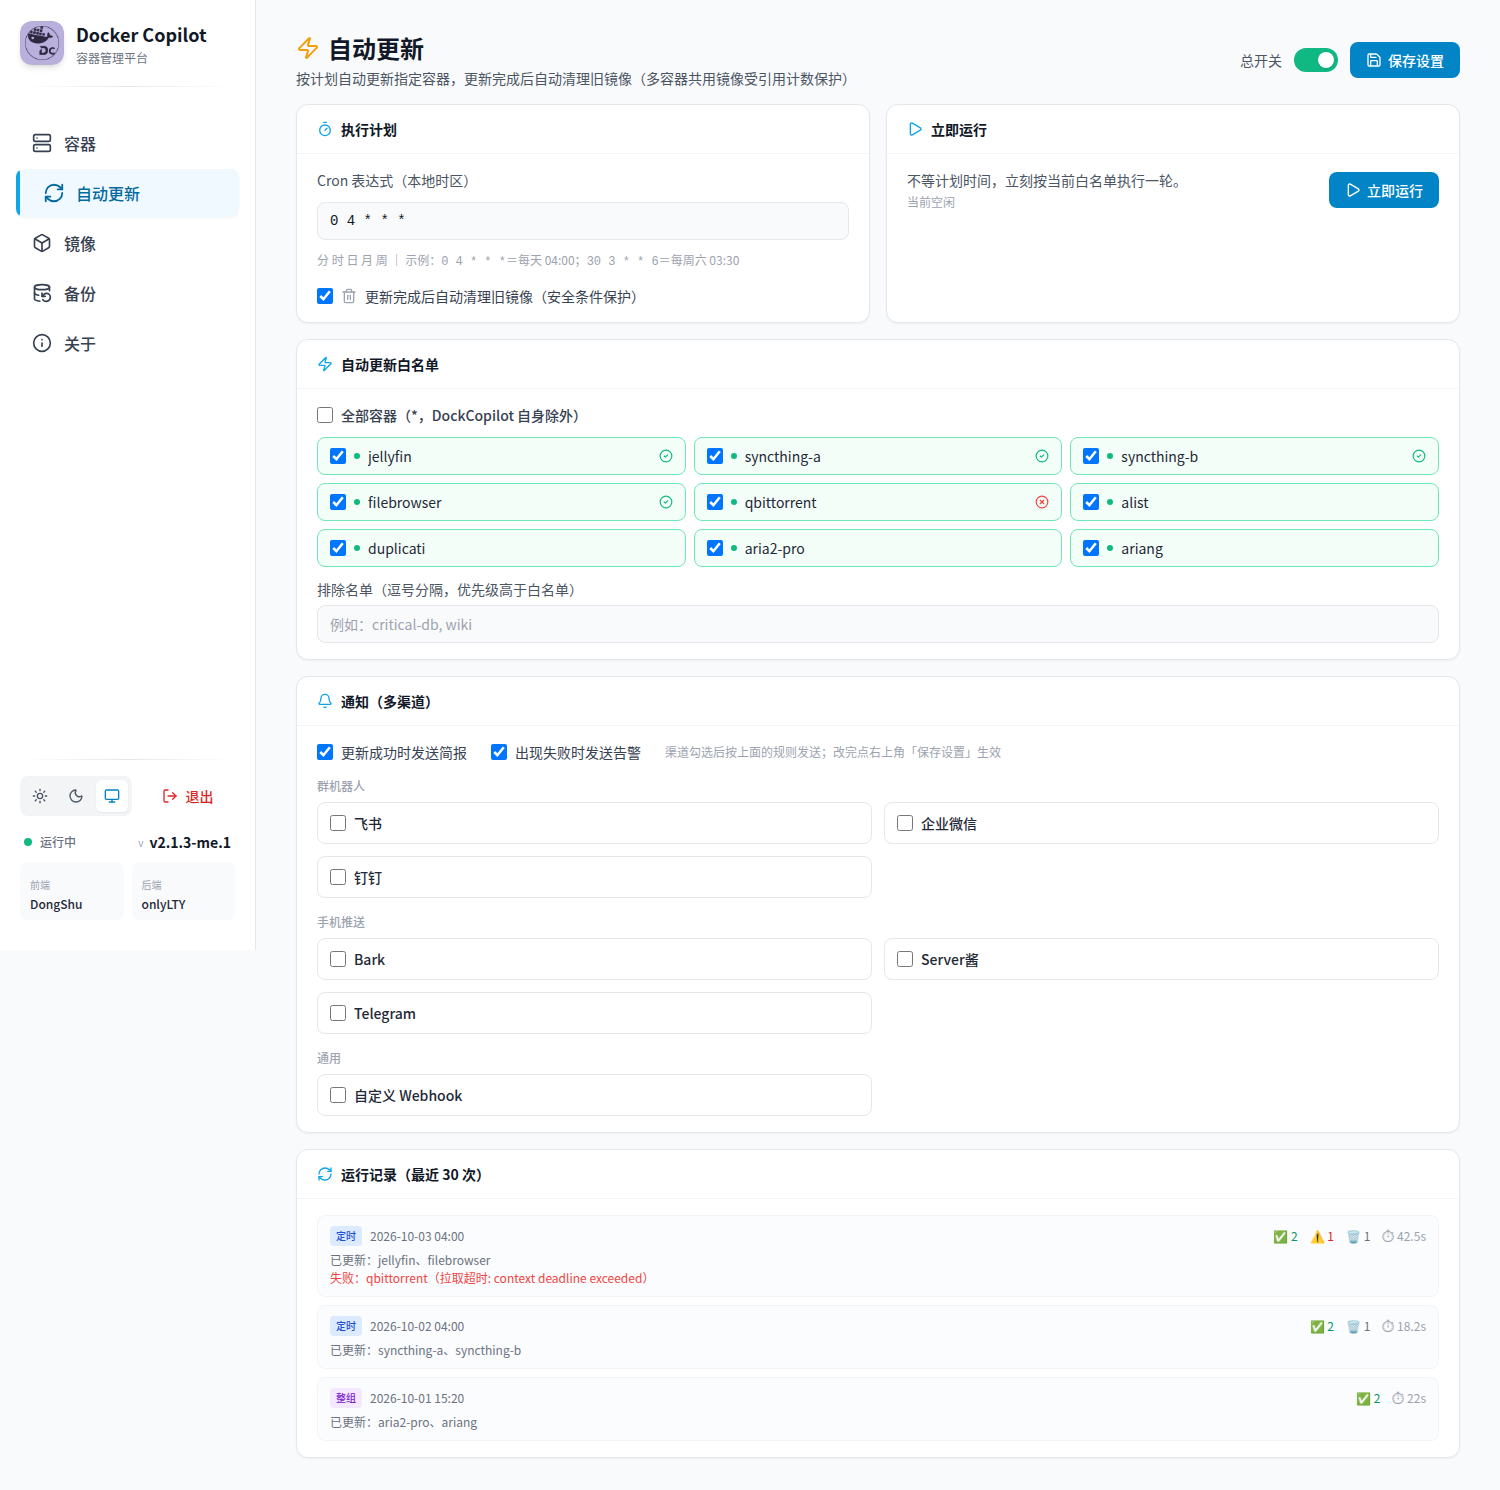
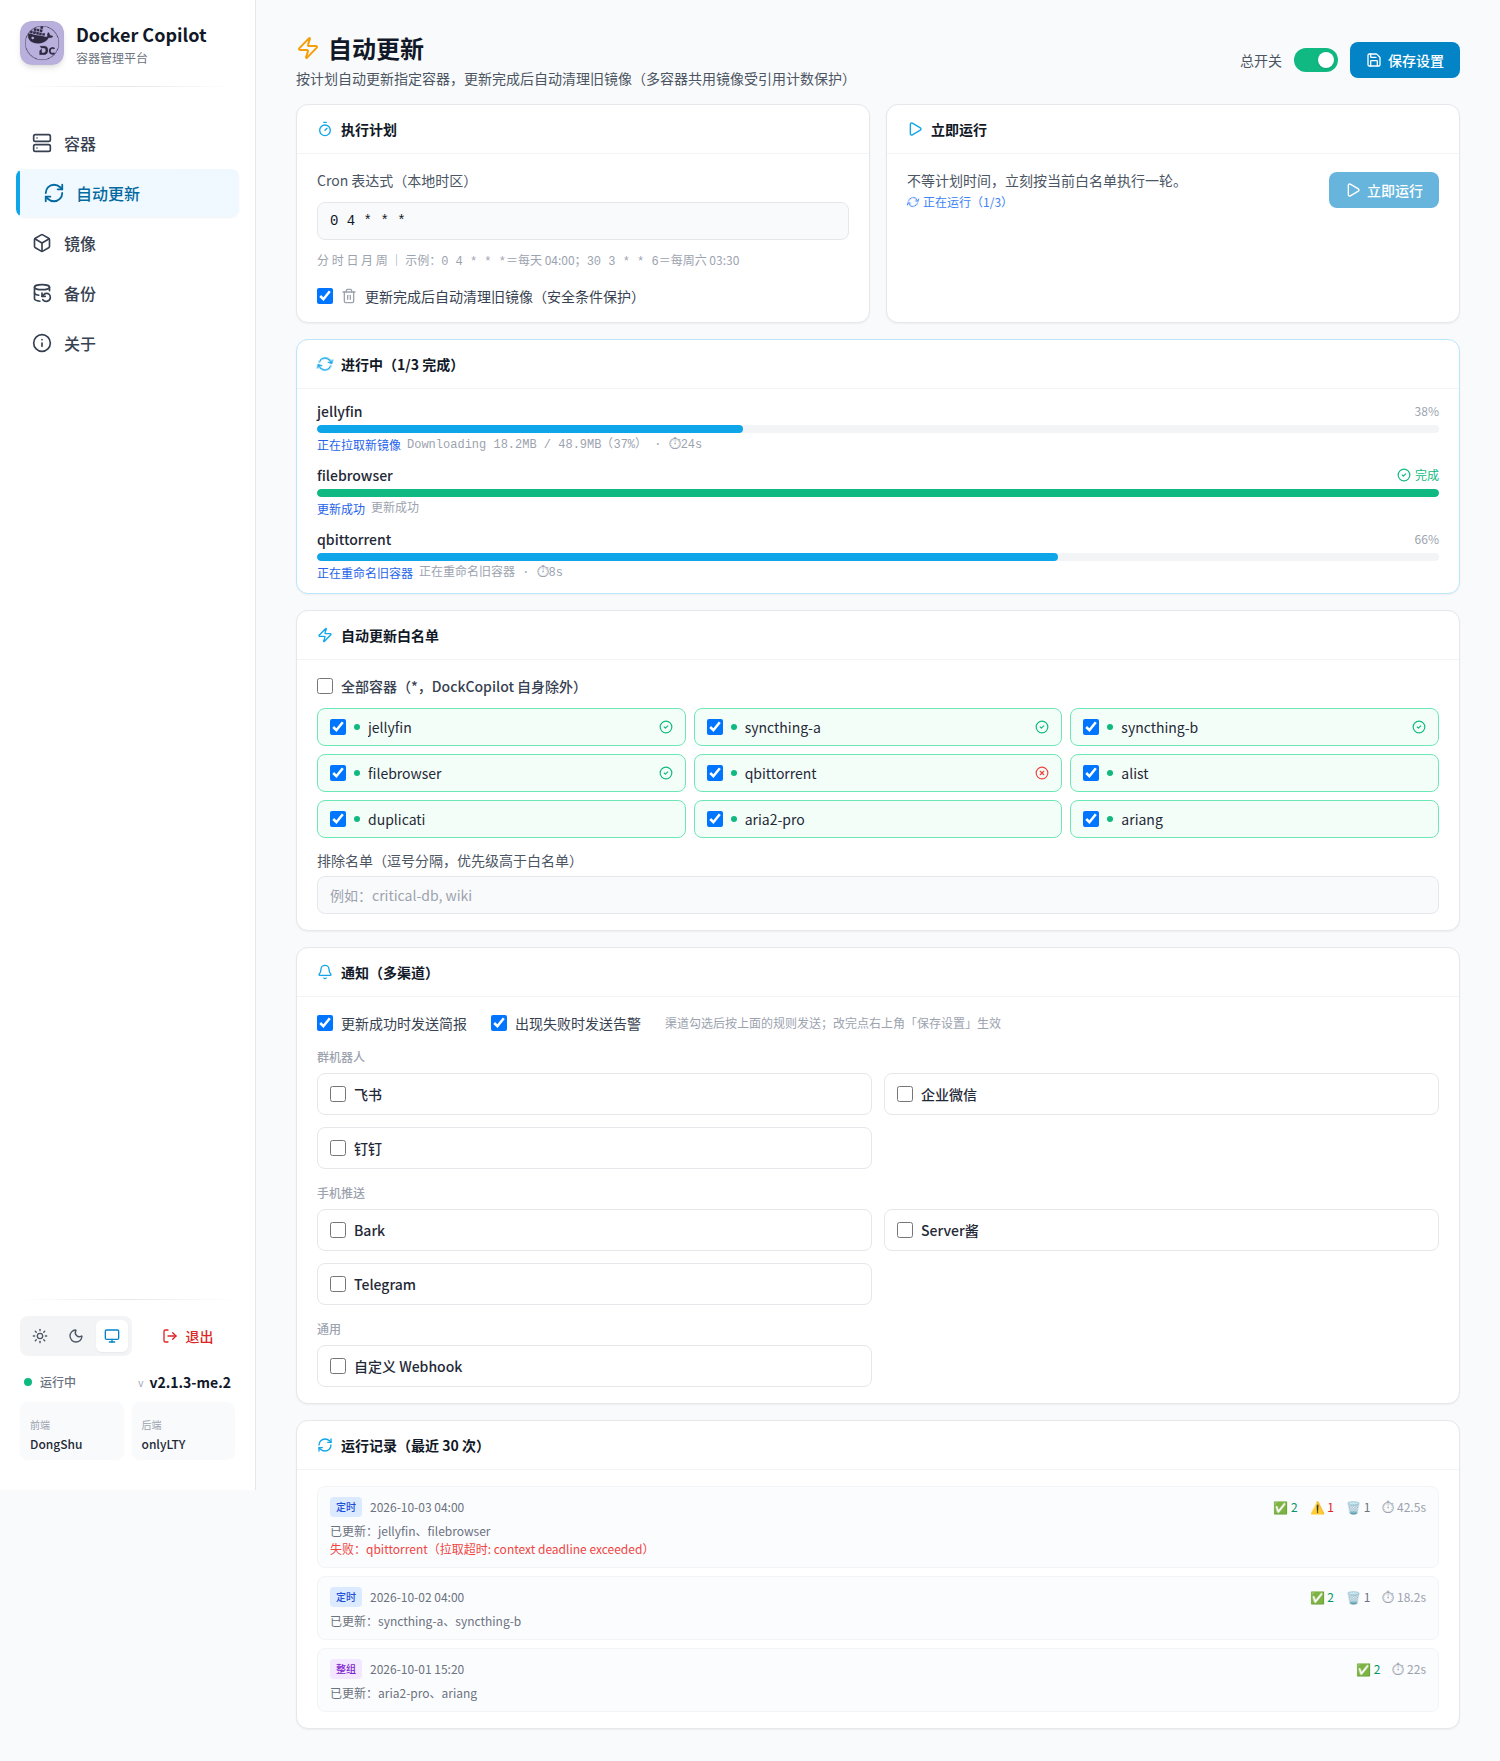
docs: README/CUSTOM 同步列表化界面与新截图 [skip ci]

diff --git a/README.md b/README.md
@@ -18,20 +18,25 @@
 
 | 功能 | 说明 |
 |---|---|
-| ⚡ **自动更新（UI 配置）** | 白名单容器按 cron 计划自动更新；容器卡片上一个开关即可加入/移出白名单；带运行记录与每容器最近结果 |
+| ⚡ **自动更新（UI 配置）** | 白名单容器按 cron 计划自动更新；容器页列表一个开关即可加入/移出白名单；带运行记录与每容器最近结果 |
 | 🗑 **旧镜像自动清理** | 更新完成后自动清理悬空旧镜像；**多容器共用镜像受"引用计数"保护**（还有任何容器在用就绝不删） |
 | 👥 **共用镜像整组更新** | 官方 issue [#144](https://github.com/onlyLTY/dockerCopilot/issues/144)/[#164](https://github.com/onlyLTY/dockerCopilot/issues/164) 场景：同一镜像被多个容器共用时，一键依次更新全部（**同一镜像只拉取一次**） |
 | 🔔 **多渠道通知** | 更新成功/失败发送简报（含失败原因、清理统计、耗时）；支持**飞书 / 企业微信 / 钉钉 / Bark / Server酱 / Telegram / 自定义 Webhook**，每渠道独立测试 |
-| 📊 **实时进度** | 批量与单个更新全程可见：真实进度条 + **字节级拉取进度** + 心跳耗时；「进行中」面板逐容器实时刷新，不再黑盒等待 |
+| 🗂 **列表化界面 + 搜索** | 容器页 / 镜像页均为列表布局，状态、自动更新、可升级、操作一屏看清；容器按**名称/镜像**、镜像按**名称/Tag/ID** 实时搜索；批量勾选照旧可用 |
+| 📊 **实时进度** | 批量与单个更新全程可见：真实进度条 + **字节级拉取进度** + 心跳耗时；批量有「进行中」面板，单个更新在容器行内**整行展开进度子行**，不再黑盒等待 |
 | 🩹 **上游修复** | ① 修复多 RepoDigests 时"永远提示有更新"（[#165](https://github.com/onlyLTY/dockerCopilot/issues/165) 同源问题）② 检查缓存并发安全（消除并发读写 map 隐患）③ 更新时保持容器原有运行状态（不再顺手启动已停止的容器） |
 
 > 所有新增功能都可以不用：不配置白名单 = 与官方行为一致（纯手动模式）。
 
 ## 二、界面预览
 
-**容器页**（每张卡片右下角绿色的 ⚡ 就是自动更新开关，状态行显示上次自动更新结果）：
+**容器页**（列表行内即为自动更新开关与上次结果；更新中的容器在整行下方展开实时进度）：
 
 ![容器页](docs/screenshots/containers.png)
+
+**镜像页**（总镜像 / 使用中 / 未使用 / 无Tag 统计卡筛选，支持搜索）：
+
+![镜像页](docs/screenshots/images.png)
 
 **共用镜像整组更新**（点「更新」时自动识别共用同一镜像的其他容器）：
 
@@ -70,7 +75,7 @@ docker compose up -d
 ## 四、自动更新怎么用
 
 1. 打开侧栏 **「自动更新」** 页：勾选要自动更新的容器（或勾"全部容器"）、设定 cron 计划（默认每天 04:00）、按需填写飞书 Webhook
-2. 或直接在**容器页**点某个卡片的 **⚡开关** 快捷加入白名单
+2. 或直接在**容器页**列表里点某个容器的**自动更新开关**快捷加入白名单
 3. 想验证效果：点「立即运行」，在「运行记录」里看结果
 4. 建议：白名单先从**不怕重启的服务**开始（面板类/工具类），数据库等敏感容器用「排除名单」排除
 

diff --git a/CUSTOM.md b/CUSTOM.md
@@ -2,12 +2,14 @@
 
 > 本分支 = 官方 [onlyLTY/dockerCopilot](https://github.com/onlyLTY/dockerCopilot)（`latest`）**+ 以下增强**。
 > `latest` 分支永远保持与官方一致；所有定制都集中在 `custom` 分支，便于持续跟随上游。
+>
+> 配套前端：[libremk66/Docker-Copilot-React](https://github.com/libremk66/Docker-Copilot-React)（`custom` 分支）。
 
 ## 一、功能总览
 
 ### 1. 自动更新（UI 配置 + 定时执行）
 
-- **入口**：侧栏「自动更新」页 + 容器卡片 ⚡ 快捷开关
+- **入口**：侧栏「自动更新」页 + 容器页列表的自动更新开关
 - 按 `cron` 计划（默认 `0 4 * * *`）自动更新白名单容器；**不配置白名单 = 保持官方纯手动模式**
 - 配置持久化在 `/data/config/autoUpdate.json`（UI 保存即生效；环境变量仅作首次生成时的默认值）
 - 运行记录（最近 30 次：时间/触发方式/成功失败明细/清理统计/耗时）+ 每容器最近一次结果
@@ -64,8 +66,16 @@
 
 - 批量运行（定时/手动）：「自动更新」页出现「进行中」面板——每容器一行实时进度条 + 阶段文案 + 拉取细节（运行期 2 秒刷新，点「立即运行」后立即显示）
 - 拉取阶段使用**真实字节百分比**（Docker 进度流 `current/total` 映射 5%~60%），并带**心跳**（每 2 秒刷新已耗时），长任务不再"看起来卡死"
-- 单容器更新：容器卡片直接显示进度条 + 阶段 + 字节级细节
+- 单容器更新：容器行内**整行展开进度子行**（进度条 + 阶段 + 字节级细节 + 百分比），信息全宽可见
 - 前端轮询策略：运行中 2 秒 / 空闲 10 秒；15 分钟兜底 + 真正 3 分钟无任何变化才暂停刷新（大镜像不再"假超时"）
+
+### 7. 列表化界面与搜索
+
+- **容器页**：一行 = 一个容器，列：名称/镜像 · 状态 · 自动更新（行内开关 + 上次结果）· 可升级 · 操作；更新中该行下方展开进度子行
+- **镜像页**：一行 = 一个镜像，列：镜像 · 大小 · 使用情况（使用中/未使用药丸）· 创建时间 · 操作（Hub / 删除 / 强删）；悬空镜像标注"无标签（悬空）"
+- **搜索**：容器按名称/镜像、镜像按名称/Tag/ID 实时过滤，带"筛选出 X / 共 Y"计数与无结果提示
+- 交互保持不变：点行打开详情，Ctrl/Cmd+点击或批量模式勾选；统计卡筛选与搜索叠加生效
+- 移动端自动折行排版（每行折为「标题行 + 信息行 + 操作行」）
 
 ## 二、环境变量（仅初始默认值）
 
@@ -111,7 +121,7 @@ internal/types/types.go / svc / dockercopilot.go  小改
 ```
 
 前端（[libremk66/Docker-Copilot-React](https://github.com/libremk66/Docker-Copilot-React) `custom` 分支）：
-`src/components/AutoUpdate.jsx`（新增页面）、`Containers.jsx`（开关/徽标/整组弹窗）、`Header.jsx`、`App.jsx`、`api/client.js`。
+`src/components/AutoUpdate.jsx`（新增页面）、`Containers.jsx`（列表化/搜索/开关/整组弹窗/进度子行）、`Images.jsx`（列表化/搜索）、`ProgressBar.jsx`、`Header.jsx`、`App.jsx`、`api/client.js`。
 
 ## 五、跟随官方更新
 
